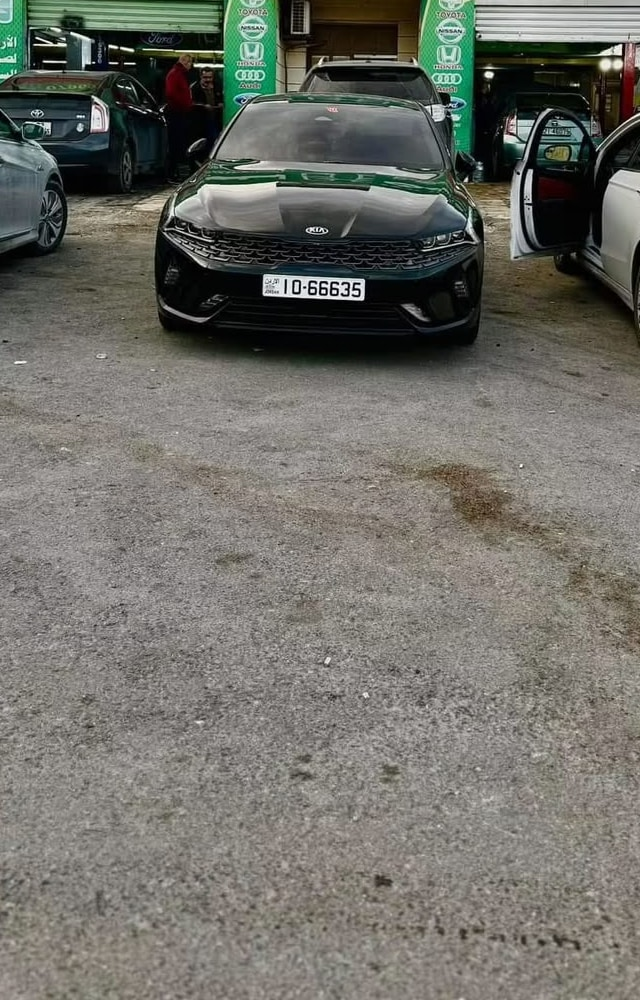
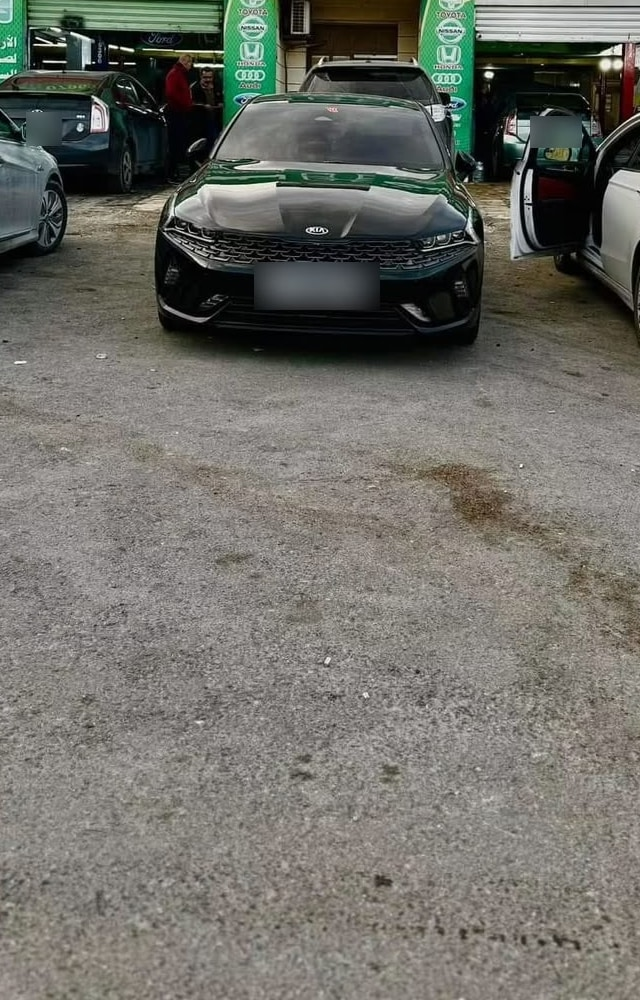
JHM: blur number plates, make the site Netlify-ready
- Blur every readable number plate in the storefront photos (hero, phone
  crop, gallery): Kia, Ford, Nissan and two partly visible ones.
- Site URL is now also taken from Netlify's URL build variable, so canonical
  links, the social preview image and the sitemap point at the real site.
  The build warns when no URL is known instead of silently using localhost.
- Add jhm-site/netlify.toml (build command + publish folder) and Netlify
  deploy steps in the README.

Claude-Session: https://claude.ai/code/session_01KBnSK4L4qCCoeZdDUNkzLp

Changed region(s): [[0.375, 0.248, 0.5938, 0.31], [0.8125, 0.093, 0.9062, 0.155], [0.0312, 0.093, 0.0938, 0.155]]

diff --git a/jhm-site/src/lib/site.ts b/jhm-site/src/lib/site.ts
@@ -35,12 +35,24 @@ export function directionsUrl(branch: Branch): string {
 
 /* ── URLs ─────────────────────────────────────────────────────────────────── */
 
+/**
+ * Public address of the site, used in search results, sitemap and WhatsApp/Facebook previews.
+ * Order: site.config.ts `siteUrl` → NEXT_PUBLIC_SITE_URL → Netlify (URL) → Vercel → localhost.
+ */
 export function siteUrl(): string {
   const fromEnv =
     process.env.NEXT_PUBLIC_SITE_URL ||
+    process.env.URL || // set by Netlify on every build: the site's main address
     (process.env.VERCEL_PROJECT_PRODUCTION_URL && `https://${process.env.VERCEL_PROJECT_PRODUCTION_URL}`) ||
     '';
   return (site.siteUrl || fromEnv || 'http://localhost:3000').replace(/\/$/, '');
+}
+
+if (process.env.NODE_ENV === 'production' && siteUrl().startsWith('http://localhost')) {
+  console.warn(
+    '\n⚠ siteUrl is not set: links in Google and WhatsApp previews will point to localhost.\n' +
+      "  Set siteUrl in site.config.ts (e.g. 'https://jhm.netlify.app'), or build on Netlify/Vercel.\n",
+  );
 }
 
 export function absoluteUrl(p: string): string {

diff --git a/jhm-site/site.config.ts b/jhm-site/site.config.ts
@@ -8,7 +8,7 @@
 import type { SiteConfig } from './src/lib/types';
 
 const site: SiteConfig = {
-  siteUrl: '', // e.g. 'https://jhm.jo' once there is a domain. Empty = Vercel URL
+  siteUrl: '', // e.g. 'https://jhm.jo' once there is a domain. Empty = detected on Netlify / Vercel
   lang: 'ar',
   name: { ar: 'الأردنية لصيانة الهايبرد' },
   shortName: 'JHM',

diff --git a/jhm-site/src/lib/types.ts b/jhm-site/src/lib/types.ts
@@ -52,7 +52,7 @@ export type Review = {
 };
 
 export type SiteConfig = {
-  /** Public URL without trailing slash, e.g. 'https://jhm.jo'. Empty = detected on Vercel. */
+  /** Public URL without trailing slash, e.g. 'https://jhm.jo'. Empty = detected on Netlify / Vercel. */
   siteUrl: string;
   lang: Lang;
   name: Text;

diff --git a/jhm-site/README.md b/jhm-site/README.md
@@ -73,16 +73,31 @@ npm run social-images
 This rebuilds `og.jpg` (the preview shown when the link is shared on WhatsApp or Facebook)
 and the browser and phone icons. Commit the results.
 
-## Deploy to Vercel
+## Deploy
 
-1. Push this repository to GitHub.
-2. On vercel.com → **Add New… → Project** → import the repository.
-3. Set **Root Directory** to `jhm-site`. Leave everything else as detected (Next.js).
-4. **Deploy.**
+### Netlify (current host)
 
-The site URL used in search results and link previews is detected automatically on Vercel.
-When JHM has its own domain, add it in Vercel (**Settings → Domains**) and set
+Connect the site to GitHub once, and every change merged to `main` goes live by itself:
+
+1. Merge this work into `main` on GitHub.
+2. Netlify → the site → **Site configuration → Build & deploy → Continuous deployment →
+   Link repository** → GitHub → this repository.
+3. **Base directory:** `jhm-site`. Build command and publish folder come from
+   [`netlify.toml`](netlify.toml) (`npm run build`, `out`).
+4. **Production branch:** `main`. Save, then **Deploys → Trigger deploy → Deploy site**.
+
+The site address used in Google and WhatsApp previews is taken from Netlify automatically.
+When JHM gets its own domain, add it in Netlify (**Domain management**) and set
 `siteUrl: 'https://your-domain'` in `site.config.ts`.
+
+A site uploaded by drag and drop (no GitHub link) never updates on its own: run
+`npm run build` and drag the new `out` folder onto **Deploys**. In that case set `siteUrl` in
+`site.config.ts` to the Netlify address first; the build prints a warning when it is missing.
+
+### Vercel
+
+**Add New… → Project** → import the repository → **Root Directory** `jhm-site` → **Deploy**.
+The site address is detected automatically.
 
 ## Checked before delivery
 
